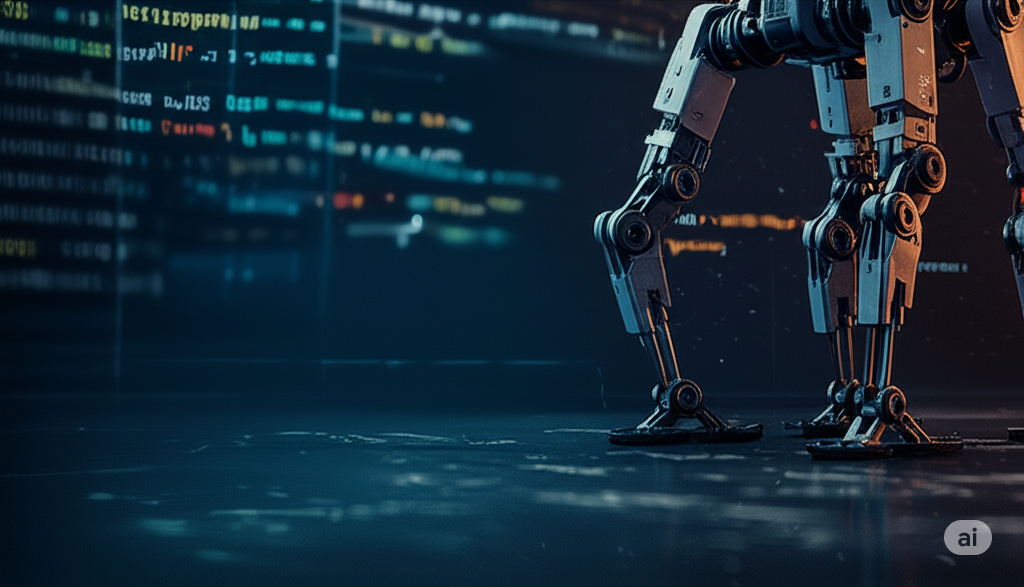
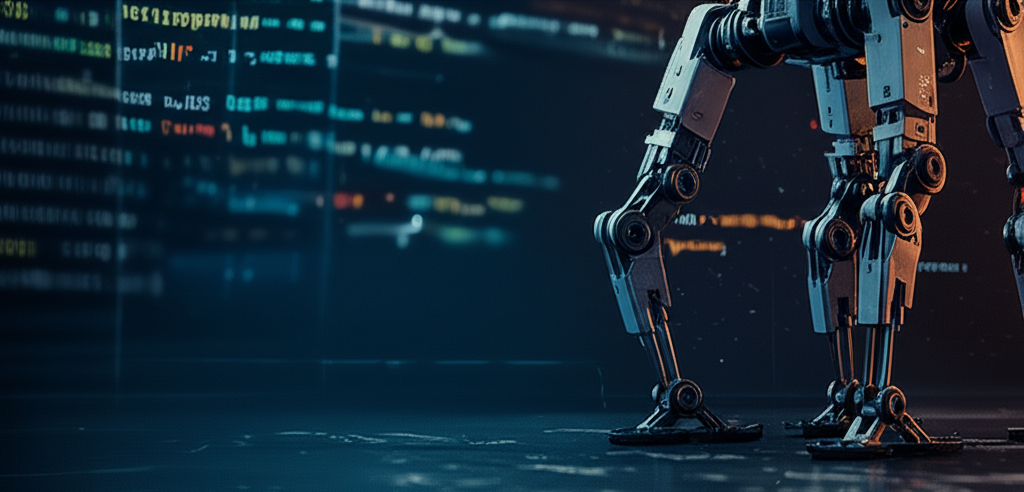
update

diff --git a/index.html b/index.html
@@ -3,7 +3,8 @@
 <html lang="en">
 <head>
     <meta charset="UTF-8">
-    <meta name="viewport" content="width=device-width, initial-scale=1.0">
+    <meta name="viewport" content="width=device-width, initial-scale=1.0, maximum-scale=1.0">
+
     <title>Harshita Mhaske - Portfolio</title>
     <style>
    body {
@@ -20,14 +21,12 @@ header {
     overflow: hidden;
 }
 .background-image {
-    position: absolute;
-    top: 0;
-    left: 0;
-    width: 100%;
-    height: 100%;
-    object-fit: cover;
-    filter: blur(2px);
+  width: 100%;
+  height: auto;
+  max-width: 100%;
+  display: block;
 }
+
 .foreground-image {
     position: absolute;
     top: 50%;
@@ -396,7 +395,7 @@ footer {
   }
 
   .nav-links li {
-    margin-left: 20px;
+    margin-left: 10px;
   }
 
   .nav-links a {
@@ -410,6 +409,18 @@ footer {
       display: none;
     }
   }
+
+  @media (max-width: 600px) {
+  header pre code {
+    font-size: 1em;
+  }
+
+  header a {
+    padding: 10px 20px;
+    font-size: 0.9em;
+  }
+}
+
 </style>
 
 
@@ -425,93 +436,124 @@ footer {
 
 
 
-<header style="position: relative; text-align: justify; color: white;">
+<header style="position: relative; text-align: justify; color: white; padding: 2em 1em;">
+
   <img src="media/bgim.png" class="background-image" alt="Background" style="width: 100%; height: auto;">
 
   <div style="
-      position: absolute;
-      top: 50%;
-      left: 50%;
-      transform: translate(-50%, -50%);
-      width: 95%; 
-      max-width: none; 
-      padding: 2em;
-      background: rgba(0, 0, 0, 0.6);
-      border-radius: 10px;
-      font-family: 'Courier New', monospace;
-      font-size: 1.3em;
-      color: #00ff90;
-      box-shadow: 0 0 20px rgba(0,0,0,0.6);
-      display: flex;
-      justify-content: space-evenly; 
-      text-align: left;
-  ">
-
-  <pre style="
+  position: absolute;
+  top: 50%;
+  left: 50%;
+  transform: translate(-50%, -50%);
+  width: 95%;
+  max-width: 1000px;
+  padding: 1em;
+  background: rgba(0, 0, 0, 0.6);
+  border-radius: 10px;
+  font-family: 'Courier New', monospace;
+  color: #00ff90;
+  box-shadow: 0 0 20px rgba(0,0,0,0.6);
+  display: flex;
+  flex-wrap: wrap;
+  gap: 1em;
+  justify-content: center;
+  align-items: center;
+  text-align: left;
+">
+ <pre style="
+  flex: 1 1 300px;
   color: #dcdcdc;
   padding: 1em;
-  border-radius: 5px;
-  font-family: 'Courier New', monospace;
-  font-size: 1.3em;
+  font-size: 1.1em;
   line-height: 1.5;
-  max-width: 1000px;
-  margin: 0; 
+  margin: 0;
+  background: #1e1e1e;
+  border-radius: 5px;
   overflow-x: auto;
+  max-width: 100%;
 ">
   <code>
-<span style="color: #569CD6;">class</span> Harshita {
+<span style="color: #569CD6;">class</span> <span style="font-size: 1.2em; font-weight: bold;color: #CE9178;">Harshita</span> {
 <span style="color: #569CD6;">public</span>:
     <span style="color: #569CD6;">void</span> greet() {
-        <span style="color: #DCDCAA;">std::cout</span> &lt;&lt; <span style="color: #CE9178; font-size: 1.6em;">"Hello, world!"</span> &lt;&lt; <span style="color: #DCDCAA;">std::endl</span>;
-    }  <span style="color: #4EC9B0;">std::string</span> role = <span style="color: #CE9178; font-size: 1.6em;">"Robotics Software Engineer"</span>;
-    <span style="color: #4EC9B0;">std::vector&lt;std::string&gt;</span> interests = {
-        <span style="color: #CE9178; font-size: 1.4em;">"Mobile Robotics"</span>, <span style="color: #CE9178; font-size: 1.4em;">"Reinforcement Learning"</span>, 
-        <span style="color: #CE9178; font-size: 1.4em;">"Legged Locomotion"</span>
+        <span style="color: #DCDCAA;">std::cout</span> &lt;&lt; <span style="font-size: 1.15em; font-weight: bold;color: #CE9178;">"Hello, world!"</span> &lt;&lt; <span style="color: #DCDCAA;">std::endl</span>;
+    }  <span style="color: #4EC9B0;">std::string</span> role = 
+        <span style="font-size: 1.4em; font-weight: bold; color: #CE9178;">"Robotics Software Engineer"</span>;
+    <span style="color: #4EC9B0;">std::vector&lt;std::string&gt;</span> 
+        <span style="color: #9CDCFE;">interests</span> = {<span style="font-size: 1.4em; font-weight: bold; color: #CE9178;">"Mobile Robotics"</span>, 
+        <span style="font-size: 1.4em; font-weight: bold;color: #CE9178;">"Reinforcement Learning"</span>, 
+        <span style="font-size: 1.4em; font-weight: bold;color: #CE9178;">"Legged Locomotion"</span>
     };};
   </code>
 </pre>
 
 
-
-      <div style="display: flex; justify-content: center; align-items: center; padding-left: 20px;">
-      <a href="media/HarshitaMhaske_resumedoc.pdf" target="_blank"
-         style="background-color: #007BFF; color: white; padding: 12px 40px; border-radius: 6px; text-decoration: none; font-weight: bold; font-size: 1em;">
-        View Resume
-      </a>
-    </div>
-
-
+  <div style="flex: 0 1 220px; text-align: center;">
+    <a href="media/HarshitaMhaske_resumedoc.pdf" target="_blank"
+       style="display: inline-block; background-color: #007BFF; color: white; padding: 12px 30px; border-radius: 6px; text-decoration: none; font-weight: bold; font-size: 1em;">
+      View Resume
+    </a>
   </div>
+</div>
+
 </header>
 
 
- <section id="research" style="padding: 1em;">
+<section id="research" style="padding: 1em;">
   <h2 style="margin-bottom: 1em; text-align: center;">Publication</h2>
 
-  <div class="research-container" style="display: flex; flex-direction: column; gap: 2em; width: 100%; padding: 0 ;">
+  <div class="research-container" style="display: flex; flex-direction: column; gap: 2em; width: 100%;">
 
-    <div class="research-entry" style="width: 100%; border: 1px solid #ddd; padding: 1em; box-sizing: border-box; display: flex; flex-direction: row; min-height: 300px; background-color: #f9f9f9; border-radius: 12px; box-shadow: 0.3 4px 8px rgba(0,0,0,0.1);">
+    <div class="research-entry" style="
+      display: flex;
+      flex-wrap: wrap;
+      gap: 1em;
+      width: 100%;
+      padding: 1em;
+      background-color: #f9f9f9;
+      border: 1px solid #ddd;
+      border-radius: 12px;
+      box-shadow: 0 4px 8px rgba(0,0,0,0.1);
+      box-sizing: border-box;
+    ">
 
-      <div class="research-video" style="flex: 1; margin-right: 1em; display: flex; align-items: center; justify-content: center;">
+      <div class="research-video" style="
+        flex: 1 1 100px;
+        display: flex;
+        align-items: center;
+        justify-content: center;
+      ">
         <a href="https://www.youtube.com/watch?v=hBNCrke3qqk" target="_blank">
           <img class="play-button" src="https://img.icons8.com/ios-filled/100/ffffff/play-button-circled--v1.png" alt="Play" style="width: 60px; height: 60px; border-radius: 50%;">
         </a>
       </div>
 
-      <div class="research-description" style="flex: 2; display: flex; flex-direction: column; justify-content: center;">
-        <h3><a href="https://arxiv.org/pdf/2503.01102" target="_blank">Ground Contact and Reaction Force Sensing for Linear Policy Control of Quadruped Robot</a></h3>
+      <div class="research-description" style="
+        flex: 2 1 300px;
+        display: flex;
+        flex-direction: column;
+        justify-content: center;
+      ">
+        <h3 style="margin: 0 0 0.5em;"><a href="https://arxiv.org/pdf/2503.01102" target="_blank">Ground Contact and Reaction Force Sensing for Linear Policy Control of Quadruped Robot</a></h3>
         <p><strong>Authors:</strong> Harshita Mhaske, Aniket Mandhare, Dr. Jidong Huang, Dr. Yu Bai</p>
         <p>The research focuses on testing a linear policy by augmenting the observation space with contacts and ground reaction forces.</p>
         <p><em>Accepted at ICCAR 2025</em></p>
       </div>
 
-      <div style="flex: 1.4; display: flex; align-items: center; justify-content: center; padding-left: 1em;">
-        <img src="media/iccar_certificate.JPG" alt="ICCAR Certificate" style="width: 100%; height: auto; border-radius: 10px; box-shadow: 0 4px 12px rgba(0,0,0,0.2);">
+      <div style="
+        flex: 1.4 1 200px;
+        display: flex;
+        align-items: center;
+        justify-content: center;
+      ">
+        <img src="media/iccar_certificate.JPG" alt="ICCAR Certificate" style="width: 100%; max-width: 300px; height: auto; border-radius: 10px; box-shadow: 0 4px 12px rgba(0,0,0,0.2);">
       </div>
 
     </div>
 
   </div>
+</section>
+
 </section>
 
     <section id="projects">
@@ -603,14 +645,7 @@ footer {
                 </div>
             </div>
 
-            <div class="skill">
-                <img src="media/Research-Keyboard.jpg" alt="Research Interest">
-                <div class="description">
-                    <h3>Research Interest</h3>
-                    <p>Bioinspired Robotics</p>
-                </div>
-            </div>
-
+           
             <div class="skill">
                 <img src="media/program.jpg" alt="Programming">
                 <div class="description">
@@ -623,7 +658,7 @@ footer {
                 <img src="media/mech_img.jpg" alt="Mechanical">
                 <div class="description">
                     <h3>Mechanical</h3>
-                    <p>Electromechanical assemblies</p>
+                    <p>Electromechanical assembly</p>
                 </div>
             </div>
 
@@ -639,7 +674,14 @@ footer {
                 <img src="media/manufacturing.jpeg" alt="Manufacturing">
                 <div class="description">
                     <h3>Manufacturing</h3>
-                    <p>3D Printing, Soldering, Electromechanical assembly</p>
+                    <p>3D Printing, Soldering</p>
+                </div>
+            </div>
+             <div class="skill">
+                <img src="media/Research-Keyboard.jpg" alt="Research Interest">
+                <div class="description">
+                    <h3>Research Interest</h3>
+                    <p>Bioinspired Robotics</p>
                 </div>
             </div>
 
